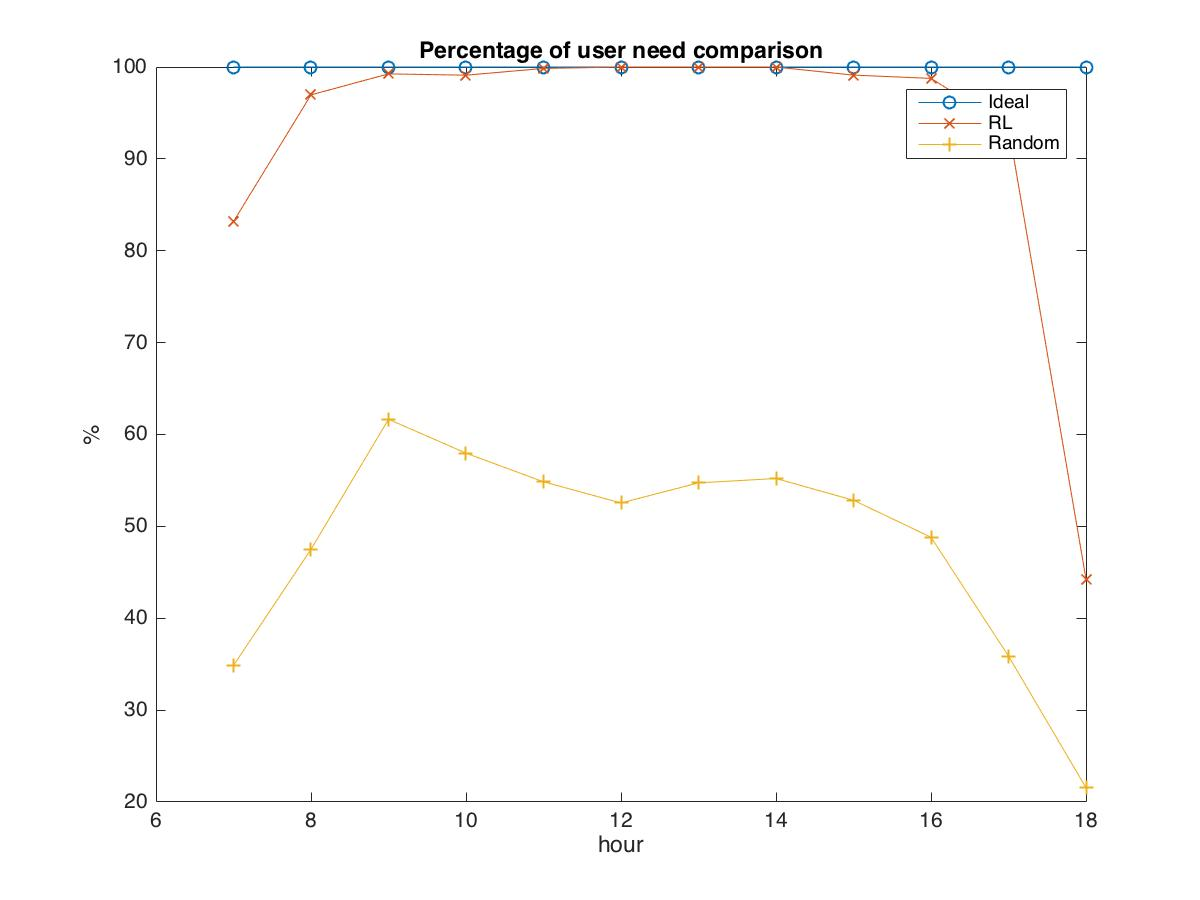
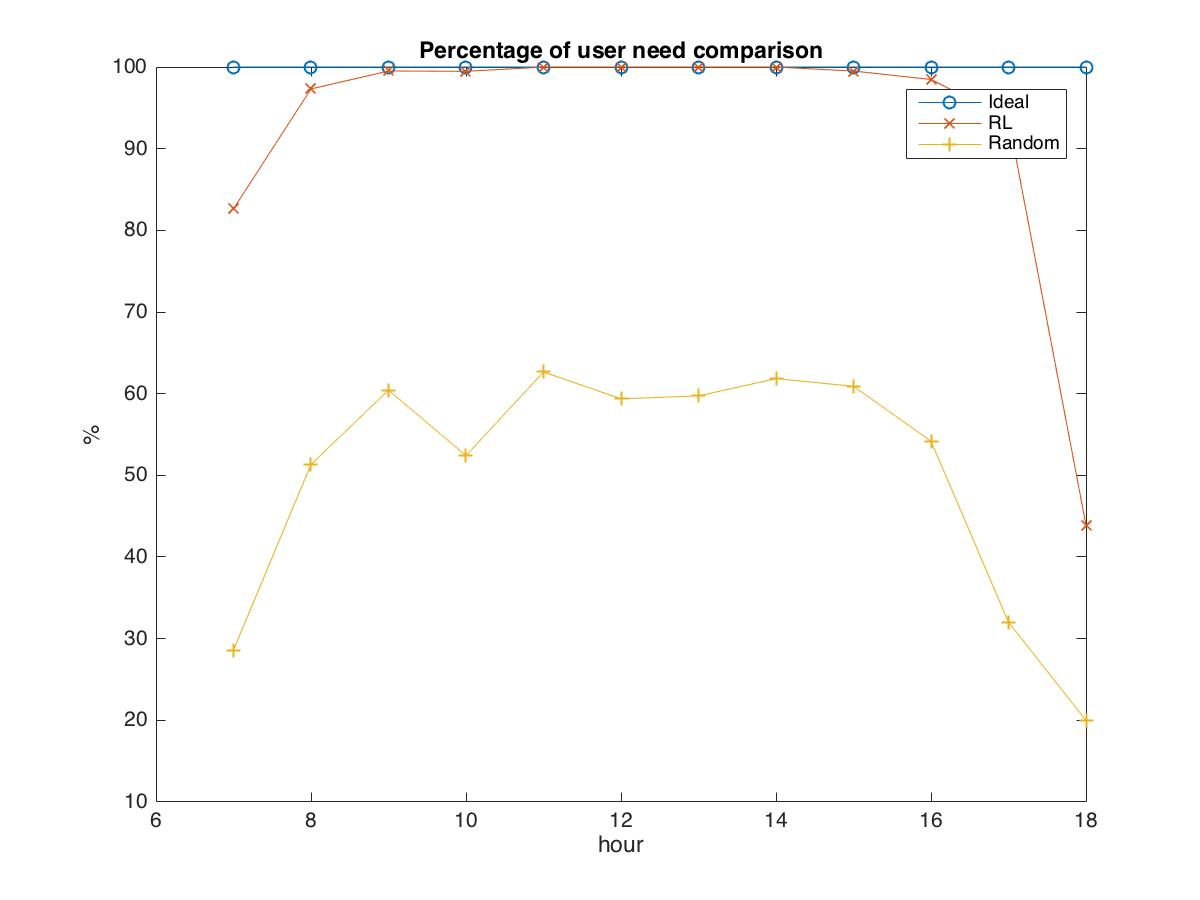
update

diff --git a/Code/train.m b/Code/train.m
@@ -78,7 +78,8 @@ for day = 1:day_num
         sup_cur_state = discretize(power_dem(compute_time, :), supply_state_edges);
         for iter_ = 1:ITERMAX 
             % Exploration
-            quoted_price = randi([quoted_price_lb quoted_price_ub], 1, plant_num);
+            %quoted_price = randi([quoted_price_lb quoted_price_ub], 1, plant_num);
+            quoted_price = quoted_price_lb*ones(1, plant_num);
             buy_price = randi([buy_price_lb buy_price_ub], 1, buy_num);
             
             % Start evaluating 
@@ -136,5 +137,5 @@ fprintf('Training time: %.2f mins\n', etime(clock, start_time)/60);
 % Save the model
 sup_Q_factor = sup_Q_factor ./ sup_weight;
 usr_Q_factor = usr_Q_factor ./ usr_weight;
-save('sup_Q_factor.mat', 'sup_Q_factor');
-save('usr_Q_factor.mat', 'usr_Q_factor');
+save('sup_Q_factor_fix_sup.mat', 'sup_Q_factor');
+save('usr_Q_factor_fix_sup.mat', 'usr_Q_factor');
